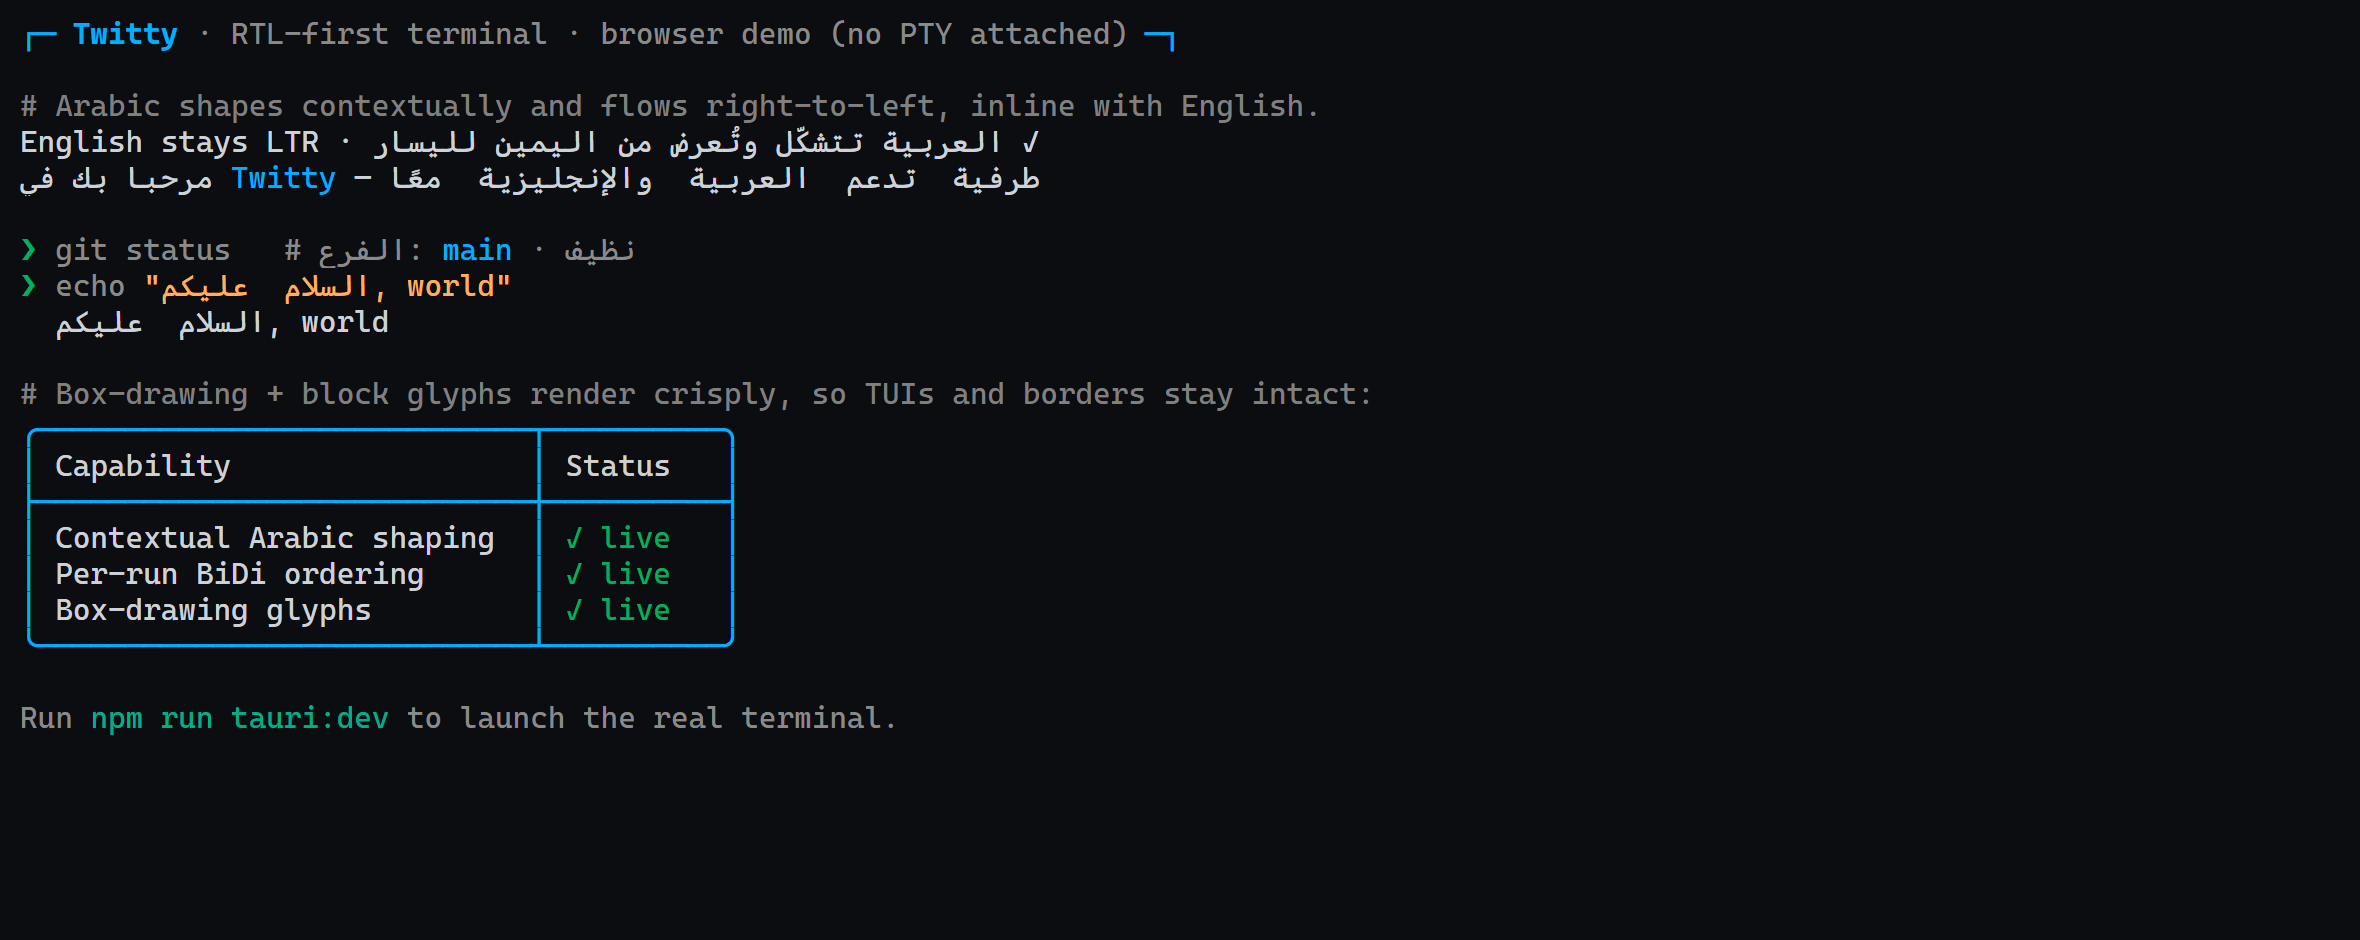
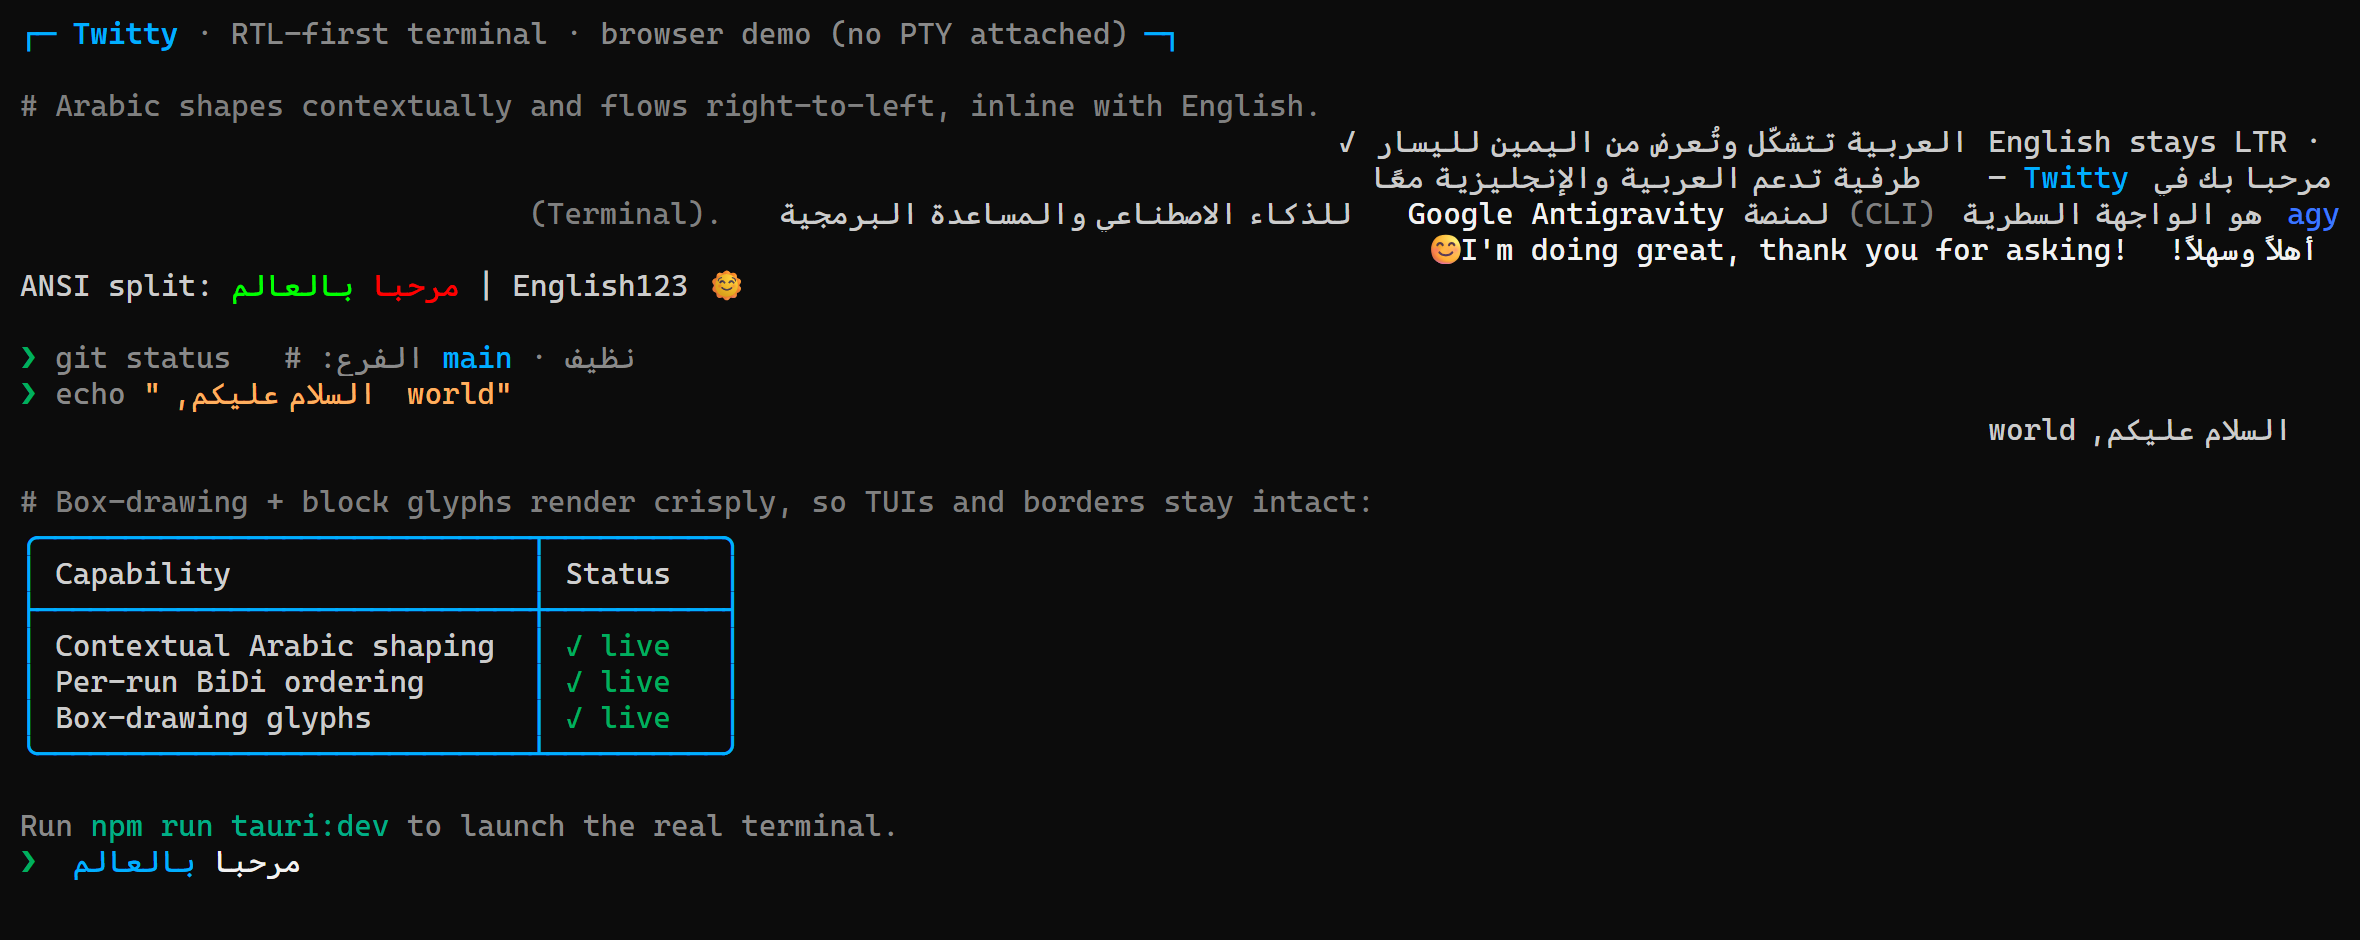
fix: render Arabic input across arbitrary TUIs

Changed region(s): [[0.0, 0.1234, 0.9898, 0.8021], [0.0, 0.8638, 0.3712, 0.9255], [0.8352, 0.4319, 0.9589, 0.4936]]

diff --git a/src/components/XtermTerminal.tsx b/src/components/XtermTerminal.tsx
@@ -8,6 +8,7 @@ import '@xterm/xterm/css/xterm.css';
 import {
   findArabicJoinRanges,
   findArabicRenderGroups,
+  includeAdjacentCursorInRenderGroups,
   isArabicOnlyRenderRun,
   isNeutralRenderRun,
   shouldRenderLineRtl,
@@ -235,9 +236,22 @@ export function XtermTerminal({
     const decorateArabicRow = (row: HTMLElement) => {
       const hasCursor = Boolean(row.querySelector('.xterm-cursor'));
 
-      // Cursor rows stay on xterm's LTR grid, but their Arabic spans still
-      // need contextual shaping and compact spacing while the user types.
-      if (hasCursor) unwrapArabicGroups(row);
+      const findRowArabicGroups = (spans: HTMLElement[]) => {
+        const groups = findArabicRenderGroups(
+          spans,
+          (span) => isArabicOnlyRenderRun(span.textContent || ''),
+          (span) => isNeutralRenderRun(span.textContent || ''),
+        ).filter((group) => group.length >= 2);
+
+        return hasCursor
+          ? includeAdjacentCursorInRenderGroups(
+            groups,
+            spans,
+            (span) => span.classList.contains('xterm-cursor'),
+            (span) => isNeutralRenderRun(span.textContent || ''),
+          )
+          : groups;
+      };
 
       let childSpans = rendererSpans(row);
       for (const span of childSpans) {
@@ -248,13 +262,13 @@ export function XtermTerminal({
         'xterm-rtl-line',
         shouldRenderLineRtl(row.textContent || '', hasCursor),
       );
-      if (hasCursor) return;
 
-      let groups = findArabicRenderGroups(
-        childSpans,
-        (span) => isArabicOnlyRenderRun(span.textContent || ''),
-        (span) => isNeutralRenderRun(span.textContent || ''),
-      ).filter((group) => group.length >= 2);
+      // Keep prompts and cursor rows on xterm's LTR grid, but still group every
+      // adjacent Arabic renderer span. TUIs commonly split one input phrase by
+      // cursor state, syntax color, or repaint boundaries; without this local
+      // wrapper its words appear in logical LTR span order. The inline wrapper
+      // retains the exact allocated cell width and does not move TUI geometry.
+      let groups = findRowArabicGroups(childSpans);
 
       const existingWrappers = Array.from(
         row.querySelectorAll<HTMLElement>(':scope > .xterm-arabic-group'),
@@ -279,11 +293,7 @@ export function XtermTerminal({
       if (existingWrappers.length) {
         unwrapArabicGroups(row);
         childSpans = rendererSpans(row);
-        groups = findArabicRenderGroups(
-          childSpans,
-          (span) => isArabicOnlyRenderRun(span.textContent || ''),
-          (span) => isNeutralRenderRun(span.textContent || ''),
-        ).filter((group) => group.length >= 2);
+        groups = findRowArabicGroups(childSpans);
       }
 
       for (const group of groups) {
@@ -368,7 +378,9 @@ export function XtermTerminal({
         w(`${C(39, '╰────────────────────────────┴──────────╯')}`);
         w('');
         w(`${C(245, 'Run')} ${C(36, 'npm run tauri:dev')} ${C(245, 'to launch the real terminal.')}`);
-        term.write(`${C(35, '❯')} كيفك how are you كويس؟`);
+        // Model an active TUI prompt whose renderer splits one Arabic phrase
+        // across colored spans, as Claude Code, Kimi Code, and similar CLIs do.
+        term.write(`${C(35, '❯')} ${C(15, 'مرحبا')}${C(245, ' ')}${C(39, 'بالعالم')}`);
         return;
       }
 

diff --git a/src/components/arabicRenderer.ts b/src/components/arabicRenderer.ts
@@ -131,9 +131,45 @@ export function findArabicRenderGroups<T>(
 }
 
 /**
+ * Keeps an active terminal cursor inside the adjacent RTL visual group. xterm
+ * represents the cursor as another renderer span. If it remains outside the
+ * group, ANSI-split Arabic words reorder correctly but the caret lands on the
+ * visual right instead of following the logical end on the visual left.
+ */
+export function includeAdjacentCursorInRenderGroups<T>(
+  groups: T[][],
+  items: T[],
+  isCursor: (item: T) => boolean,
+  isNeutral: (item: T) => boolean,
+): T[][] {
+  return groups.map((group) => {
+    if (group.some(isCursor)) return group;
+
+    const start = items.indexOf(group[0]);
+    const end = items.indexOf(group[group.length - 1]);
+    if (start < 0 || end < start) return group;
+
+    for (let scan = end + 1; scan < items.length; scan += 1) {
+      const item = items[scan];
+      if (isCursor(item)) return [...group, ...items.slice(end + 1, scan + 1)];
+      if (!isNeutral(item)) break;
+    }
+
+    for (let scan = start - 1; scan >= 0; scan -= 1) {
+      const item = items[scan];
+      if (isCursor(item)) return [...items.slice(scan, start), ...group];
+      if (!isNeutral(item)) break;
+    }
+
+    return group;
+  });
+}
+
+/**
  * Arabic prose needs an RTL paragraph base so embedded English/code stays in
  * the correct reading position. Keep shell prompts and the active cursor row
- * anchored to the terminal's LTR grid.
+ * anchored to the terminal's LTR grid; their local Arabic render groups are
+ * still reordered independently by the DOM decorator.
  */
 export function shouldRenderLineRtl(
   text: string,

diff --git a/src/styles.css b/src/styles.css
@@ -106,7 +106,8 @@ body {
 
 /* Completed Arabic-dominant prose uses an RTL paragraph base so embedded
    English/code keeps its local LTR order without moving to unrelated cells.
-   Prompt and cursor rows are deliberately excluded by the renderer policy. */
+   Prompt and cursor rows keep their LTR paragraph base; local Arabic groups
+   inside them still reorder phrases split by TUI colors or repaint spans. */
 .xterm-host .xterm-rows > .xterm-rtl-line {
   direction: rtl;
   unicode-bidi: isolate;
